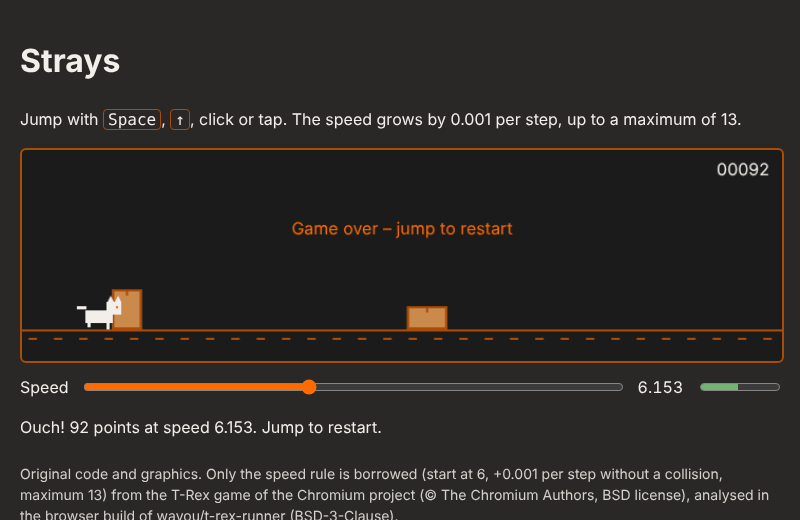
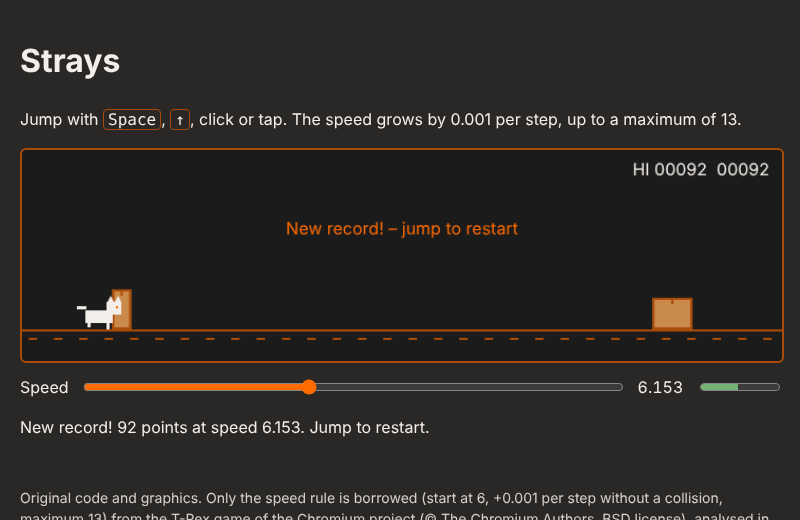
Add a high score kept in the browser (spec 06)
The best score is stored in localStorage and shown as "HI 00092 00041"
next to the current score. It only changes on game over; beating it
shows "New record!" on the canvas and in the status line. Storage
errors are caught, so the game runs the same when storage is blocked.

The behaviour test now also checks the record after a crash, that it
survives a reload, and that the game runs with storage throwing.

Claude-Session: https://claude.ai/code/session_01WwwZG2Szd8R3ngBsM1TLoc

diff --git a/game.js b/game.js
@@ -14,6 +14,7 @@
   const GRAVITY = 0.6;
   const JUMP_VELOCITY = -11;
   const COLORS = { cat: '#f2eee9', box: '#c98a4b', edge: '#ab4b08', ground: '#ab4b08', text: '#f2eee9', accent: '#ff6b01' };
+  const HIGH_SCORE_KEY = 'strays.highScore';
 
   const playfield = document.getElementById('playfield');
   const ctx = playfield.getContext('2d');
@@ -27,6 +28,8 @@
     speed: RULE.start,
     startSpeed: RULE.start,
     score: 0,
+    highScore: loadHighScore(),
+    newRecord: false,
     cat: { x: 60, y: GROUND_Y, vy: 0, width: 34, height: 26 },
     boxes: [],
     distanceToNext: 0,
@@ -38,6 +41,7 @@
     state.phase = 'running';
     state.speed = state.startSpeed;
     state.score = 0;
+    state.newRecord = false;
     state.boxes = [];
     state.distanceToNext = 300;
     state.cat.y = GROUND_Y;
@@ -73,7 +77,15 @@
 
     if (collides()) {
       state.phase = 'over';
-      announce(`Ouch! ${Math.floor(state.score)} points at speed ${state.speed.toFixed(3)}. Jump to restart.`);
+      const points = Math.floor(state.score);
+      // The best score only changes on game over, so the numbers don't jump around while running
+      state.newRecord = points > state.highScore;
+      if (state.newRecord) {
+        state.highScore = points;
+        saveHighScore(points);
+      }
+      const verdict = state.newRecord ? 'New record!' : 'Ouch!';
+      announce(`${verdict} ${points} points at speed ${state.speed.toFixed(3)}. Jump to restart.`);
       return;
     }
 
@@ -94,6 +106,24 @@
       const top = GROUND_Y - box.height;
       return catRight > box.x && catLeft < box.x + box.width && catBottom > top;
     });
+  }
+
+  // --- High score (optional storage: the game works the same without it) ---
+  function loadHighScore() {
+    try {
+      const value = Number(localStorage.getItem(HIGH_SCORE_KEY));
+      return Number.isFinite(value) && value > 0 ? Math.floor(value) : 0;
+    } catch {
+      return 0;
+    }
+  }
+
+  function saveHighScore(value) {
+    try {
+      localStorage.setItem(HIGH_SCORE_KEY, String(value));
+    } catch {
+      // Storage blocked: keep the best score for this visit only
+    }
   }
 
   // --- Drawing ---
@@ -117,12 +147,16 @@
     ctx.fillStyle = COLORS.text;
     ctx.font = '16px system-ui, sans-serif';
     ctx.textAlign = 'right';
-    ctx.fillText(String(Math.floor(state.score)).padStart(5, '0'), WIDTH - 12, 24);
+    const current = String(Math.floor(state.score)).padStart(5, '0');
+    const best = state.highScore > 0 ? `HI ${String(state.highScore).padStart(5, '0')}  ` : '';
+    ctx.fillText(best + current, WIDTH - 12, 24);
 
     if (state.phase !== 'running') {
       ctx.textAlign = 'center';
       ctx.fillStyle = COLORS.accent;
-      ctx.fillText(state.phase === 'ready' ? 'Jump to start' : 'Game over – jump to restart', WIDTH / 2, 80);
+      let message = 'Jump to start';
+      if (state.phase === 'over') message = state.newRecord ? 'New record! – jump to restart' : 'Game over – jump to restart';
+      ctx.fillText(message, WIDTH / 2, 80);
     }
   }
 
@@ -206,7 +240,12 @@
   }
 
   // Hook for automated tests (read-only, changes nothing)
-  window.strays = { get speed() { return state.speed; }, get phase() { return state.phase; } };
+  window.strays = {
+    get speed() { return state.speed; },
+    get phase() { return state.phase; },
+    get score() { return Math.floor(state.score); },
+    get highScore() { return state.highScore; },
+  };
 
   updateReadout();
   requestAnimationFrame(loop);

diff --git a/specs/06-highscore.md b/specs/06-highscore.md
@@ -26,10 +26,10 @@ None. Points still grow by speed / 10 per step, plus treats (09).
 
 ## Acceptance criteria
 
-- [ ] `window.strays.score` and `window.strays.highScore` are exposed (read-only).
-- [ ] After a crash with a higher score, `highScore` equals the floored final score.
-- [ ] The value survives a reload.
-- [ ] With `localStorage` throwing (stubbed in the test), the game still starts and runs.
+- [x] `window.strays.score` and `window.strays.highScore` are exposed (read-only).
+- [x] After a crash with a higher score, `highScore` equals the floored final score.
+- [x] The value survives a reload.
+- [x] With `localStorage` throwing (stubbed in the test), the game still starts and runs.
 
 ## Out of scope
 

diff --git a/specs/README.md b/specs/README.md
@@ -41,7 +41,7 @@ bridge for the borrowed rule; everything in this folder is an original design.
 | 03 | [Sound](03-sound.md) | Polish | planned |
 | 04 | [Effects](04-juice.md) | Polish | planned |
 | 05 | [Day and night](05-day-night.md) | Polish | planned |
-| 06 | [High score](06-highscore.md) | Gameplay | planned |
+| 06 | [High score](06-highscore.md) | Gameplay | done |
 | 07 | [Jump control](07-jump-control.md) | Gameplay | planned |
 | 08 | [More obstacles](08-obstacles.md) | Gameplay | planned |
 | 09 | [Treats](09-treats.md) | Gameplay | planned |

diff --git a/README.md b/README.md
@@ -37,7 +37,8 @@ Then open <http://localhost:8000/>. Jump with Space, arrow up, click or tap.
 ## Test
 
 `test/test-game.mjs` checks the behaviour with Playwright (increase per second, freeze on
-collision, restart at 6, cap at 13) and saves screenshots:
+collision, restart at 6, cap at 13, high score kept across a reload and without storage) and saves
+screenshots:
 
 ```bash
 npm i playwright-core
